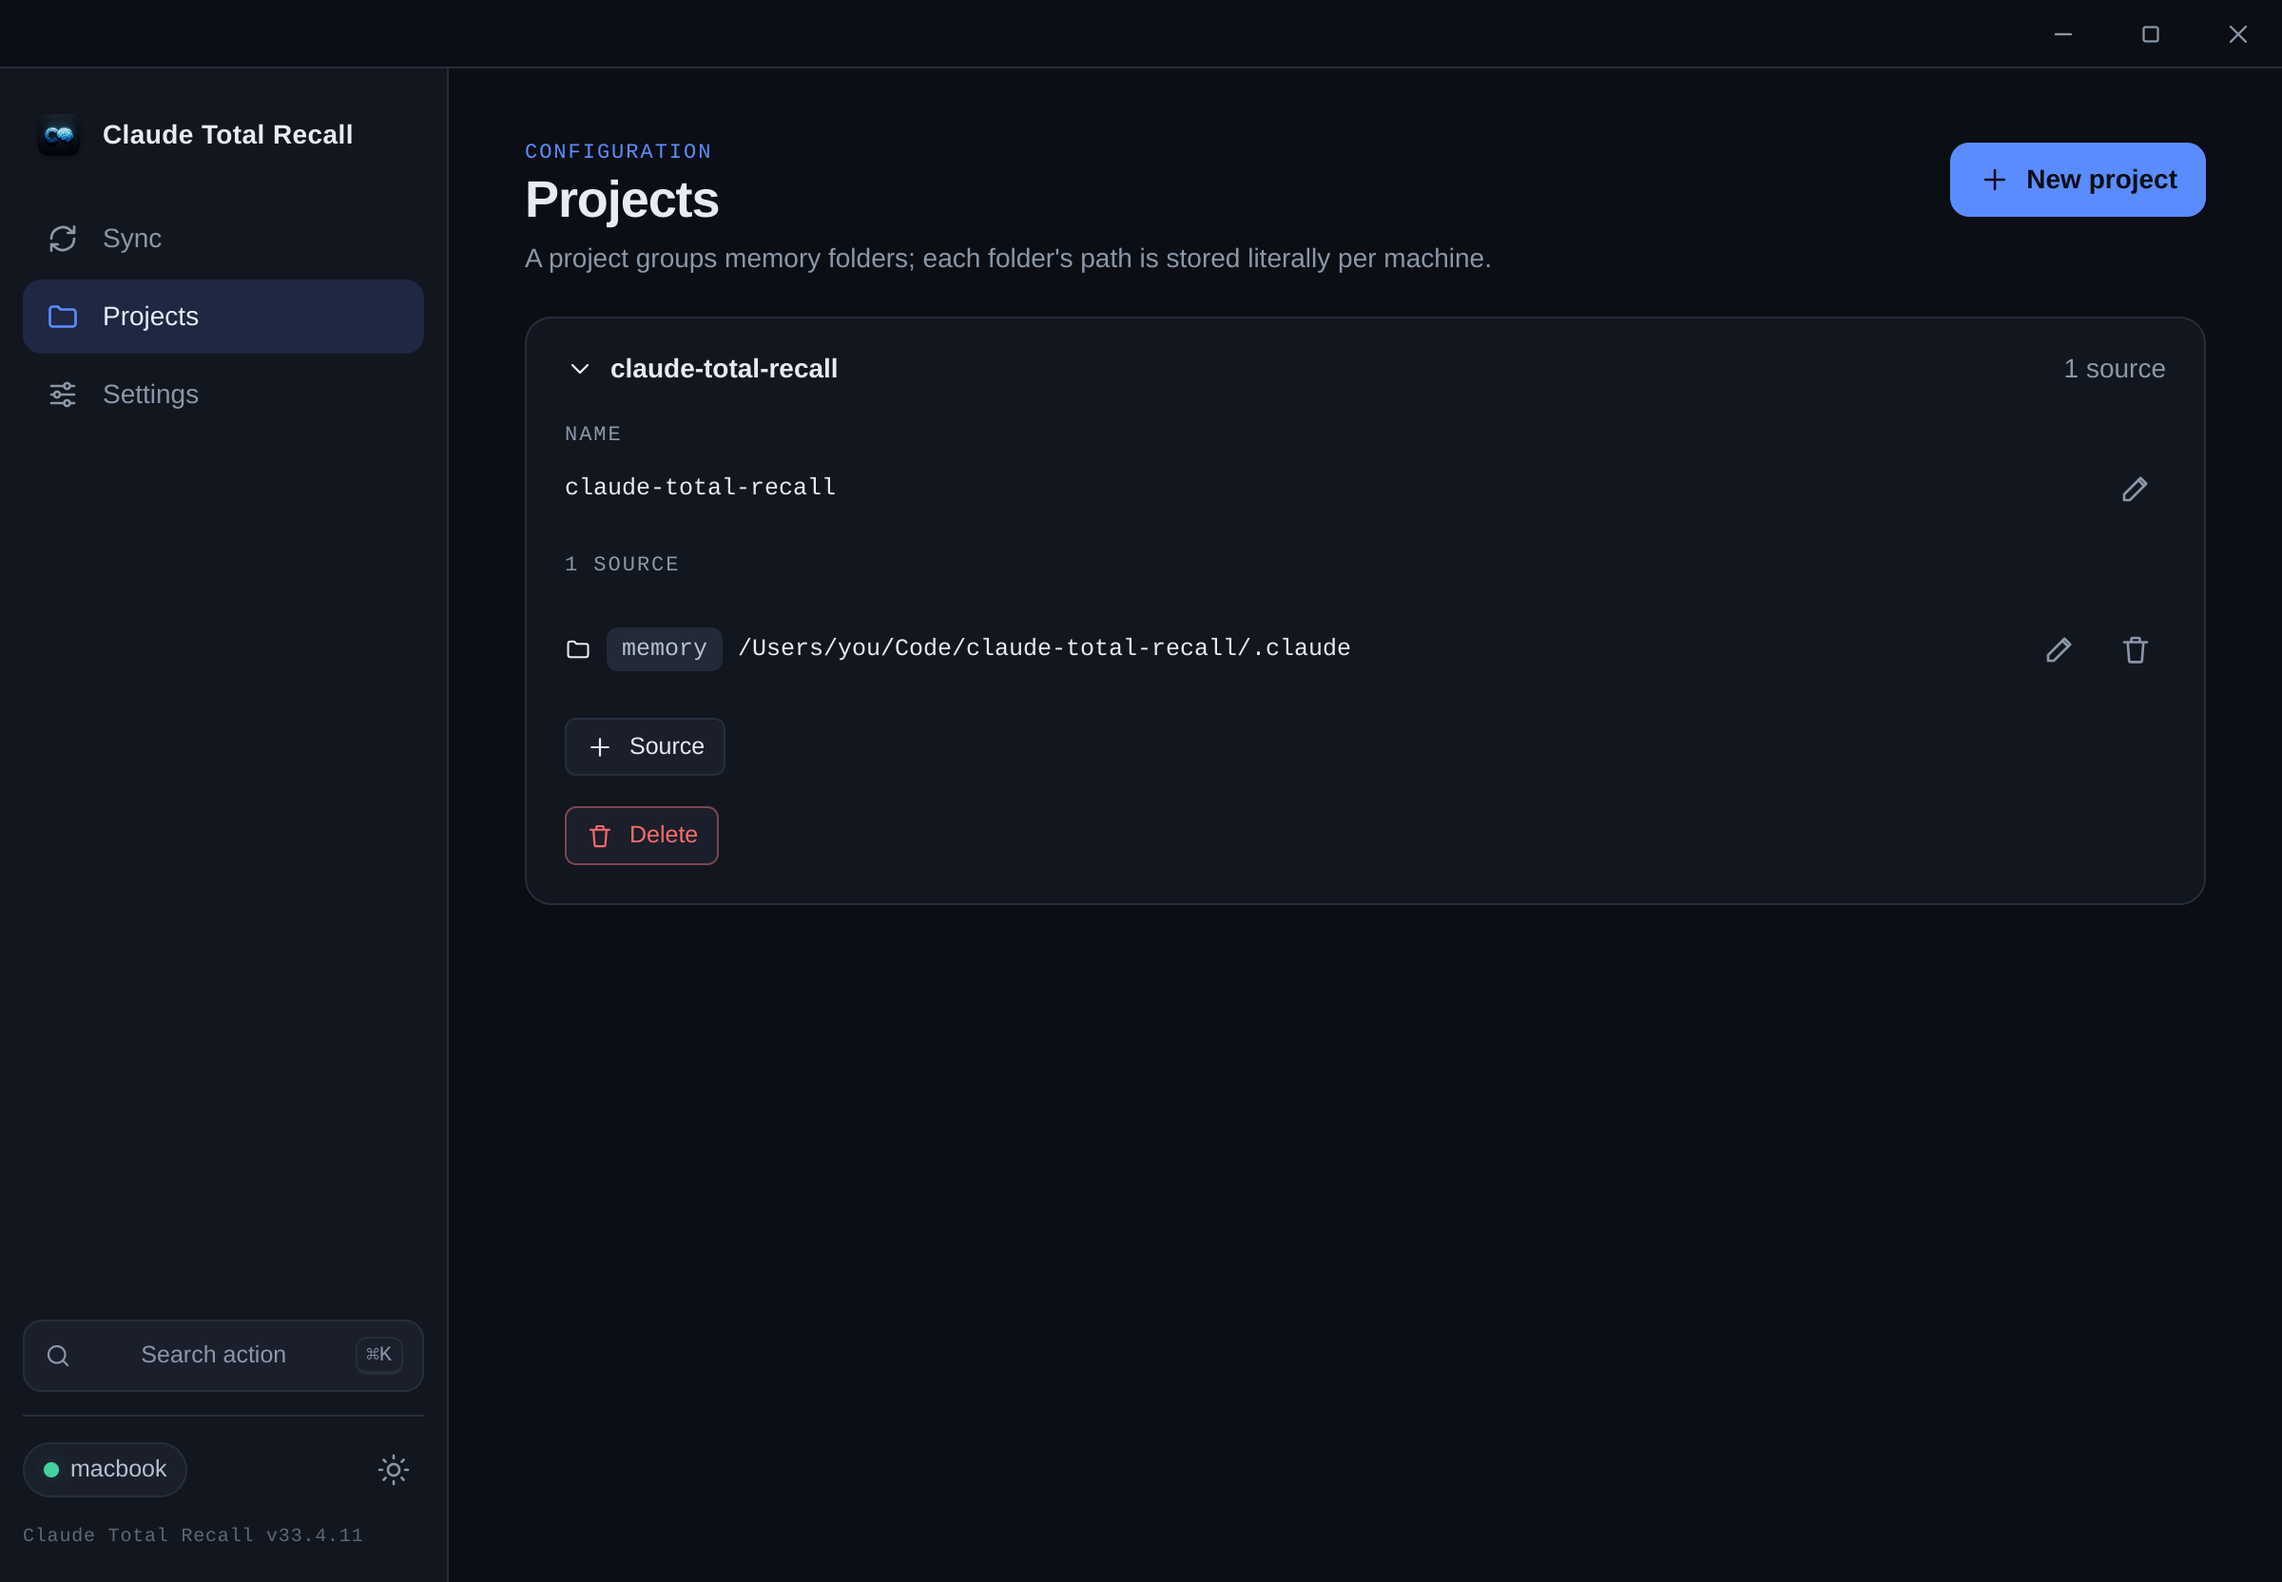
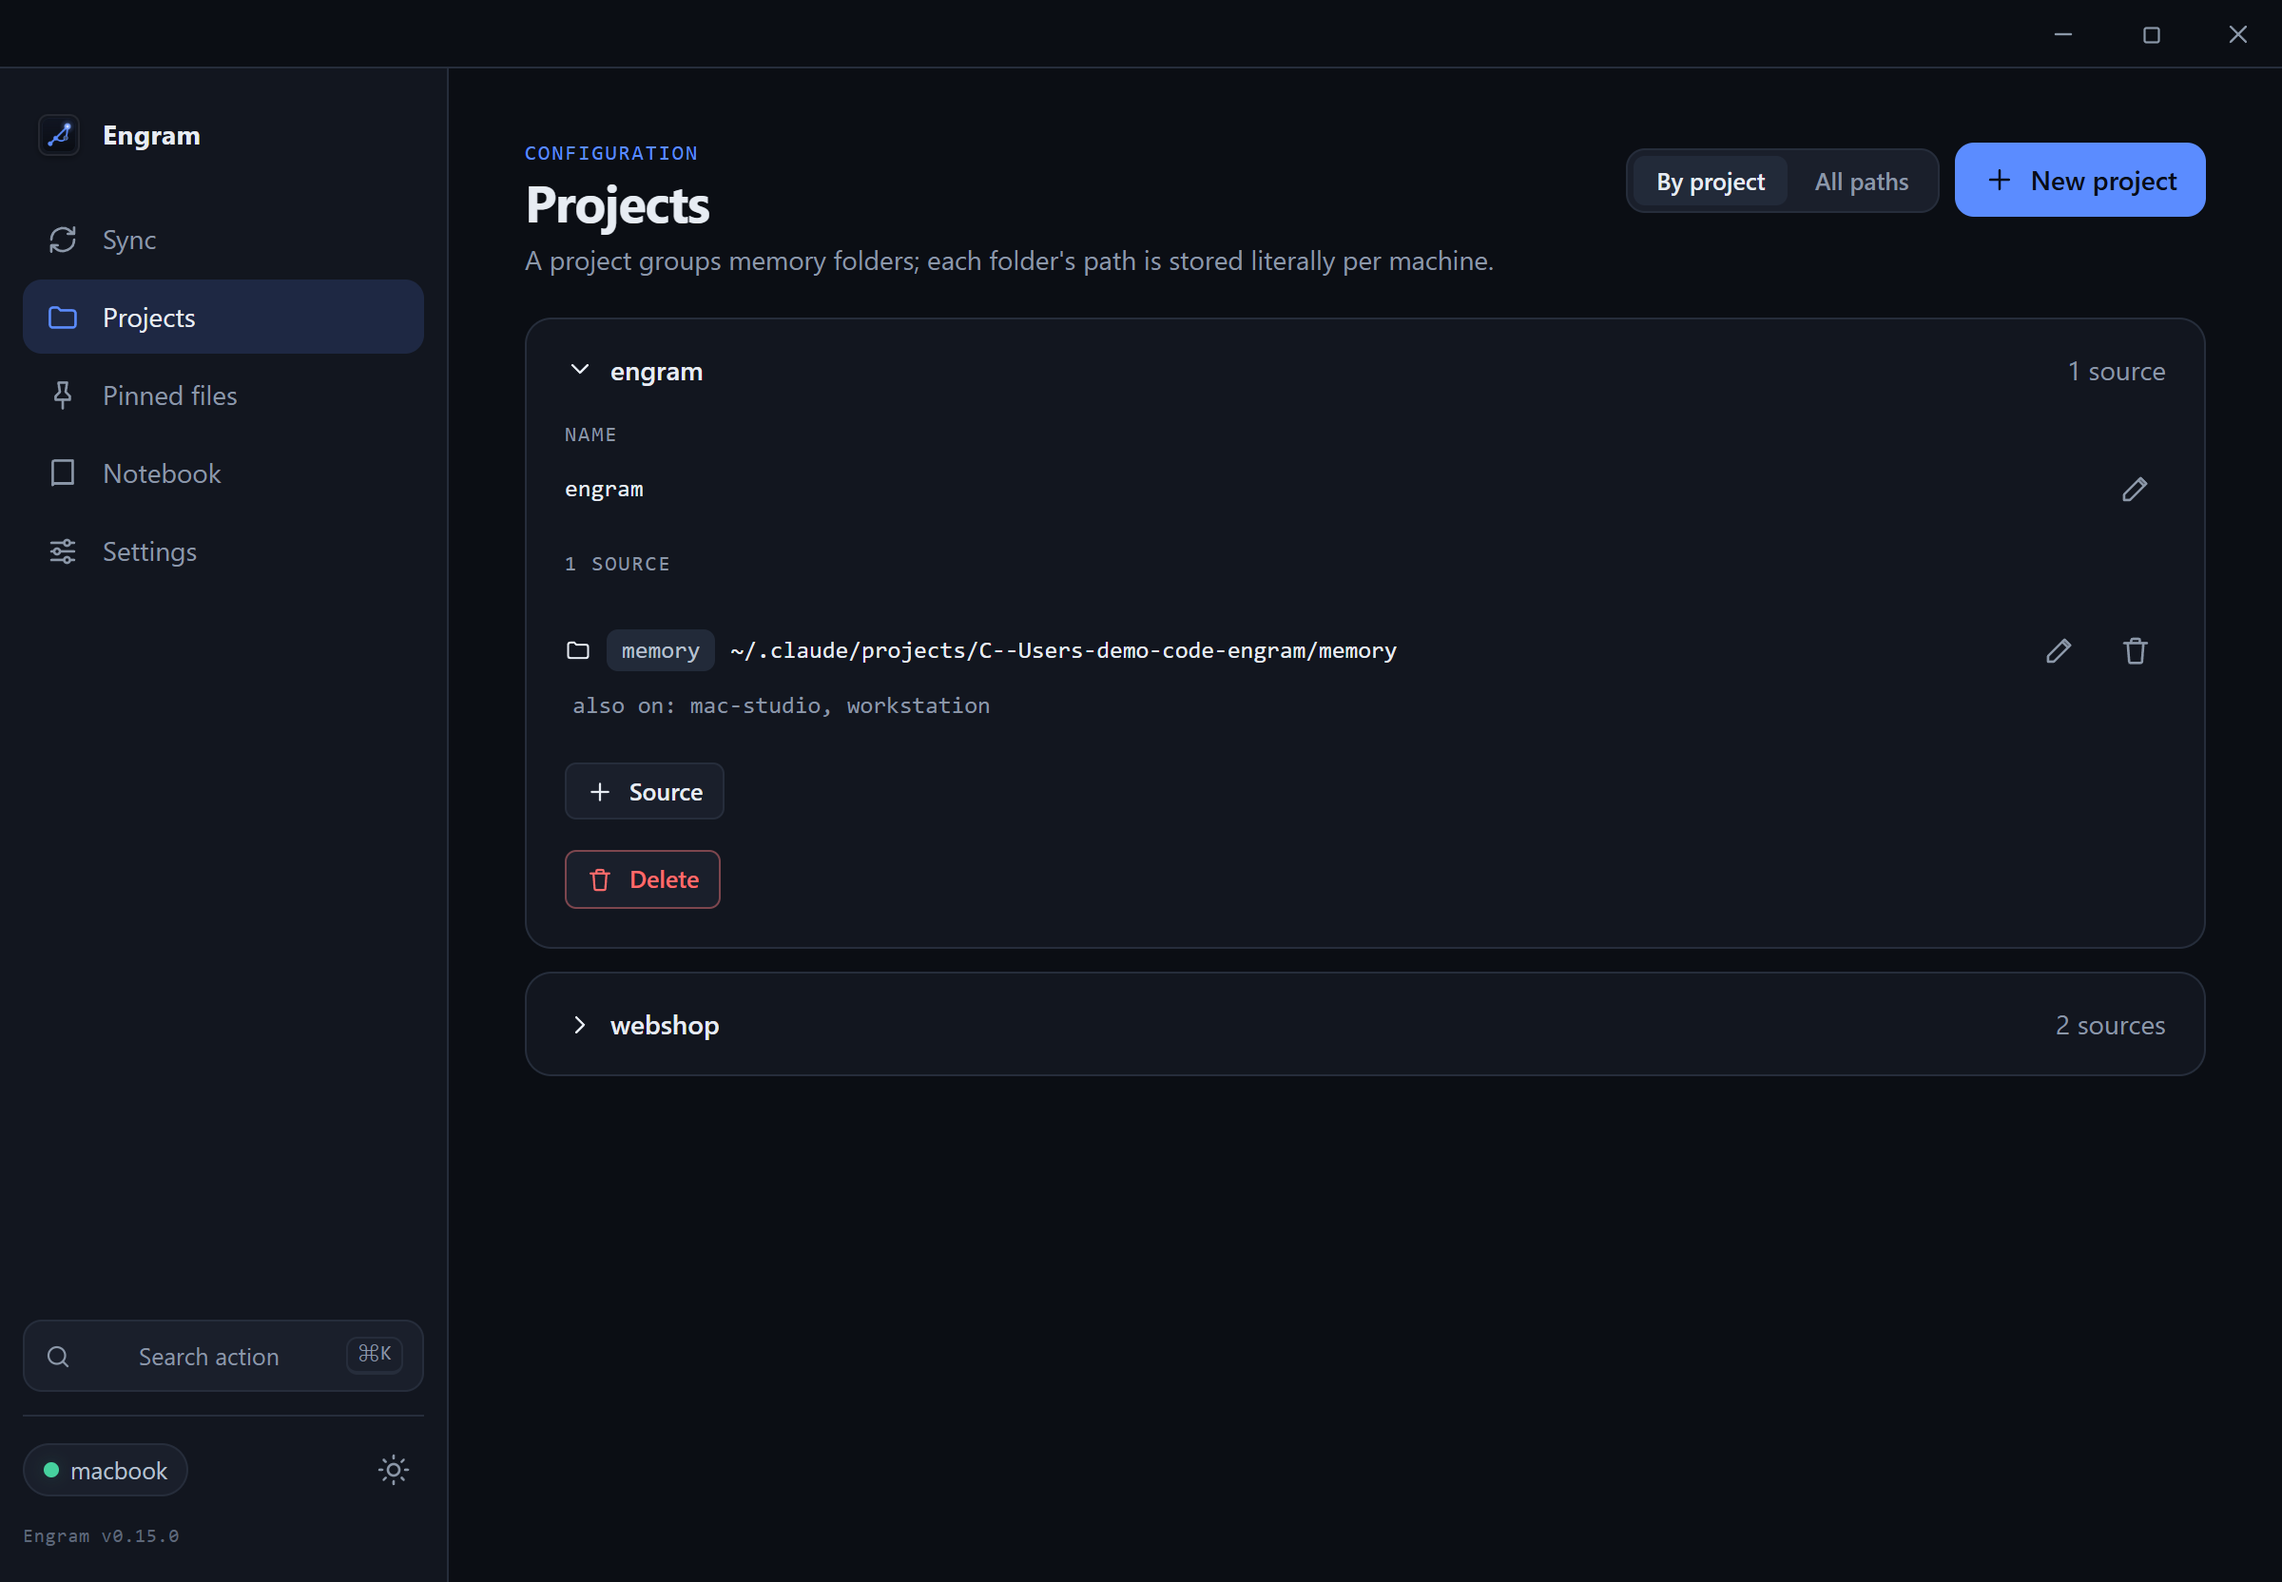
docs: Engram screenshots + README without the old name (#150)
- New screenshots from the current app (isolated demo profile with three
  machines): sync home, Notebook, All paths, onboarding, Projects — the old
  ones still showed "Claude Total Recall" and the pre-0.15 menu.
- README: the old name now appears only in a short "Upgrading from an earlier
  version" section near the end (it has to, for the uninstall commands);
  added the missing Windows install section; Windows dropped from the roadmap.
- Tests: incidental fixtures (temp-dir prefixes, git identities, fake URLs)
  renamed; only the ones that exercise legacy compatibility keep the old name.

diff --git a/src/core/history.test.ts b/src/core/history.test.ts
@@ -99,7 +99,7 @@ describe('classifyCommit', () => {
 describe('Git.log', () => {
   let root: string
   beforeAll(async () => {
-    root = await mkdtemp(join(tmpdir(), 'claude-total-recall-hist-'))
+    root = await mkdtemp(join(tmpdir(), 'engram-hist-'))
   })
   afterAll(async () => {
     await rm(root, { recursive: true, force: true })
@@ -109,8 +109,8 @@ describe('Git.log', () => {
     const dir = join(root, name)
     await run('git', ['init', '--initial-branch=main', dir])
     const g = new Git(dir)
-    await g.config('user.email', 'test@claude-total-recall.local')
-    await g.config('user.name', 'Claude Total Recall Test')
+    await g.config('user.email', 'test@engram.local')
+    await g.config('user.name', 'Engram Test')
     await g.config('commit.gpgsign', 'false')
     return g
   }

diff --git a/src/core/notebookHistory.test.ts b/src/core/notebookHistory.test.ts
@@ -27,15 +27,15 @@ afterEach(async () => {
 })
 
 async function setup() {
-  const base = await mkdtemp(join(tmpdir(), 'claude-total-recall-nbh-'))
+  const base = await mkdtemp(join(tmpdir(), 'engram-nbh-'))
   bases.push(base)
   const a = createPlatformAdapter(process.platform, join(base, 'home'))
   const wc = workingCopyDir(a)
   await mkdir(wc, { recursive: true })
   const git = new Git(wc)
   await git.init()
-  await git.config('user.email', 'test@claude-total-recall.local')
-  await git.config('user.name', 'Claude Total Recall Test')
+  await git.config('user.email', 'test@engram.local')
+  await git.config('user.name', 'Engram Test')
   // Same verbatim-bytes policy as a real memories repo (see service.ts).
   await writeFile(join(wc, '.gitattributes'), '* -text\n')
   await git.add()

diff --git a/src/core/git.test.ts b/src/core/git.test.ts
@@ -9,8 +9,8 @@ import { Git } from './git'
 let root: string
 
 async function configUser(g: Git): Promise<void> {
-  await g.config('user.email', 'test@claude-total-recall.local')
-  await g.config('user.name', 'Claude Total Recall Test')
+  await g.config('user.email', 'test@engram.local')
+  await g.config('user.name', 'Engram Test')
   await g.config('commit.gpgsign', 'false')
 }
 
@@ -49,7 +49,7 @@ beforeAll(async () => {
   process.env.GIT_CONFIG_COUNT = '1'
   process.env.GIT_CONFIG_KEY_0 = 'core.autocrlf'
   process.env.GIT_CONFIG_VALUE_0 = 'false'
-  root = await mkdtemp(join(tmpdir(), 'claude-total-recall-git-'))
+  root = await mkdtemp(join(tmpdir(), 'engram-git-'))
 })
 afterAll(async () => {
   for (const k of GIT_CONFIG_ENV_KEYS) {

diff --git a/src/core/config.test.ts b/src/core/config.test.ts
@@ -7,7 +7,7 @@ import { loadConfig, parseConfig, saveConfig } from './config'
 
 const validConfig: Config = {
   version: 1,
-  repo: { remote: 'https://github.com/acme/claude-total-recall-repo.git' },
+  repo: { remote: 'https://github.com/acme/engram-memories.git' },
   machines: {
     'mac-01': { os: 'macos', hostname: 'macbook', home: '/Users/acme' },
     'linux-01': { os: 'linux', hostname: 'workstation', home: '/home/acme' },
@@ -59,7 +59,7 @@ describe('loadConfig / saveConfig', () => {
   let dir: string
 
   beforeEach(async () => {
-    dir = await mkdtemp(join(tmpdir(), 'claude-total-recall-config-'))
+    dir = await mkdtemp(join(tmpdir(), 'engram-config-'))
   })
 
   afterEach(async () => {

diff --git a/src/core/notebookSearch.test.ts b/src/core/notebookSearch.test.ts
@@ -160,7 +160,7 @@ describe('searchNotebook (working copy)', () => {
 
   /** A working copy holding only Notebook files (search needs no commits). */
   async function notebookWith(files: Record<string, string | Buffer>) {
-    const base = await mkdtemp(join(tmpdir(), 'claude-total-recall-nbs-'))
+    const base = await mkdtemp(join(tmpdir(), 'engram-nbs-'))
     bases.push(base)
     const a = createPlatformAdapter(process.platform, join(base, 'home'))
     const root = join(workingCopyDir(a), 'memories/notebook')

diff --git a/src/core/managedCache.test.ts b/src/core/managedCache.test.ts
@@ -49,7 +49,7 @@ async function git(dir: string, ...args: string[]): Promise<string> {
 }
 
 async function setup(): Promise<{ base: string; remote: string }> {
-  const base = await mkdtemp(join(tmpdir(), 'claude-total-recall-managed-'))
+  const base = await mkdtemp(join(tmpdir(), 'engram-managed-'))
   bases.push(base)
   const remote = join(base, 'remote.git')
   await run('git', ['init', '--bare', '--initial-branch=main', remote])

diff --git a/src/core/instanceLock.test.ts b/src/core/instanceLock.test.ts
@@ -30,7 +30,7 @@ function holder(over: Partial<LockHolder> = {}): LockHolder {
 }
 
 beforeEach(async () => {
-  tmpHome = await mkdtemp(join(tmpdir(), 'claude-total-recall-lock-'))
+  tmpHome = await mkdtemp(join(tmpdir(), 'engram-lock-'))
   adapter = createPlatformAdapter(process.platform, tmpHome)
   await mkdir(adapter.configHome(), { recursive: true })
   clock = 1_000_000

diff --git a/src/renderer/state/selectors.test.ts b/src/renderer/state/selectors.test.ts
@@ -79,7 +79,7 @@ describe('conflicts', () => {
 })
 
 describe('sidebarNotice', () => {
-  const PAGE = 'https://github.com/MrBurcha/ClaudeTotalRecall/releases'
+  const PAGE = 'https://github.com/MrBurcha/Engram/releases'
   const currentArm: InstallerLink = {
     url: `${PAGE}/download/v0.14.0/x-macos-arm64.dmg`,
     variant: 'macos-arm64',

diff --git a/src/core/plan.test.ts b/src/core/plan.test.ts
@@ -35,7 +35,7 @@ interface Sandbox {
 const bases: string[] = []
 
 async function seed(): Promise<Sandbox> {
-  const base = await mkdtemp(join(tmpdir(), 'claude-total-recall-plan-'))
+  const base = await mkdtemp(join(tmpdir(), 'engram-plan-'))
   bases.push(base)
   const home1 = join(base, 'home1')
   const home2 = join(base, 'home2')

diff --git a/src/core/discovery.test.ts b/src/core/discovery.test.ts
@@ -15,7 +15,7 @@ import {
   slug,
 } from './discovery'
 
-const FAKE_HOME = '/tmp/claude-total-recall-fake-home'
+const FAKE_HOME = '/tmp/engram-fake-home'
 
 // Some cases are POSIX-host-specific: symlink creation needs elevated privileges on
 // Windows, and the cross-machine remap (remapPath / isUnderClaudeProjects) works off

diff --git a/src/core/localState.test.ts b/src/core/localState.test.ts
@@ -22,7 +22,7 @@ let tmpHome: string
 let adapter: PlatformAdapter
 
 beforeEach(async () => {
-  tmpHome = await mkdtemp(join(tmpdir(), 'claude-total-recall-localstate-'))
+  tmpHome = await mkdtemp(join(tmpdir(), 'engram-localstate-'))
   adapter = createPlatformAdapter(process.platform, tmpHome)
 })
 

diff --git a/src/core/activityLog.test.ts b/src/core/activityLog.test.ts
@@ -17,7 +17,7 @@ let tmpHome: string
 let adapter: PlatformAdapter
 
 beforeEach(async () => {
-  tmpHome = await mkdtemp(join(tmpdir(), 'claude-total-recall-activity-'))
+  tmpHome = await mkdtemp(join(tmpdir(), 'engram-activity-'))
   adapter = createPlatformAdapter(process.platform, tmpHome)
 })
 
